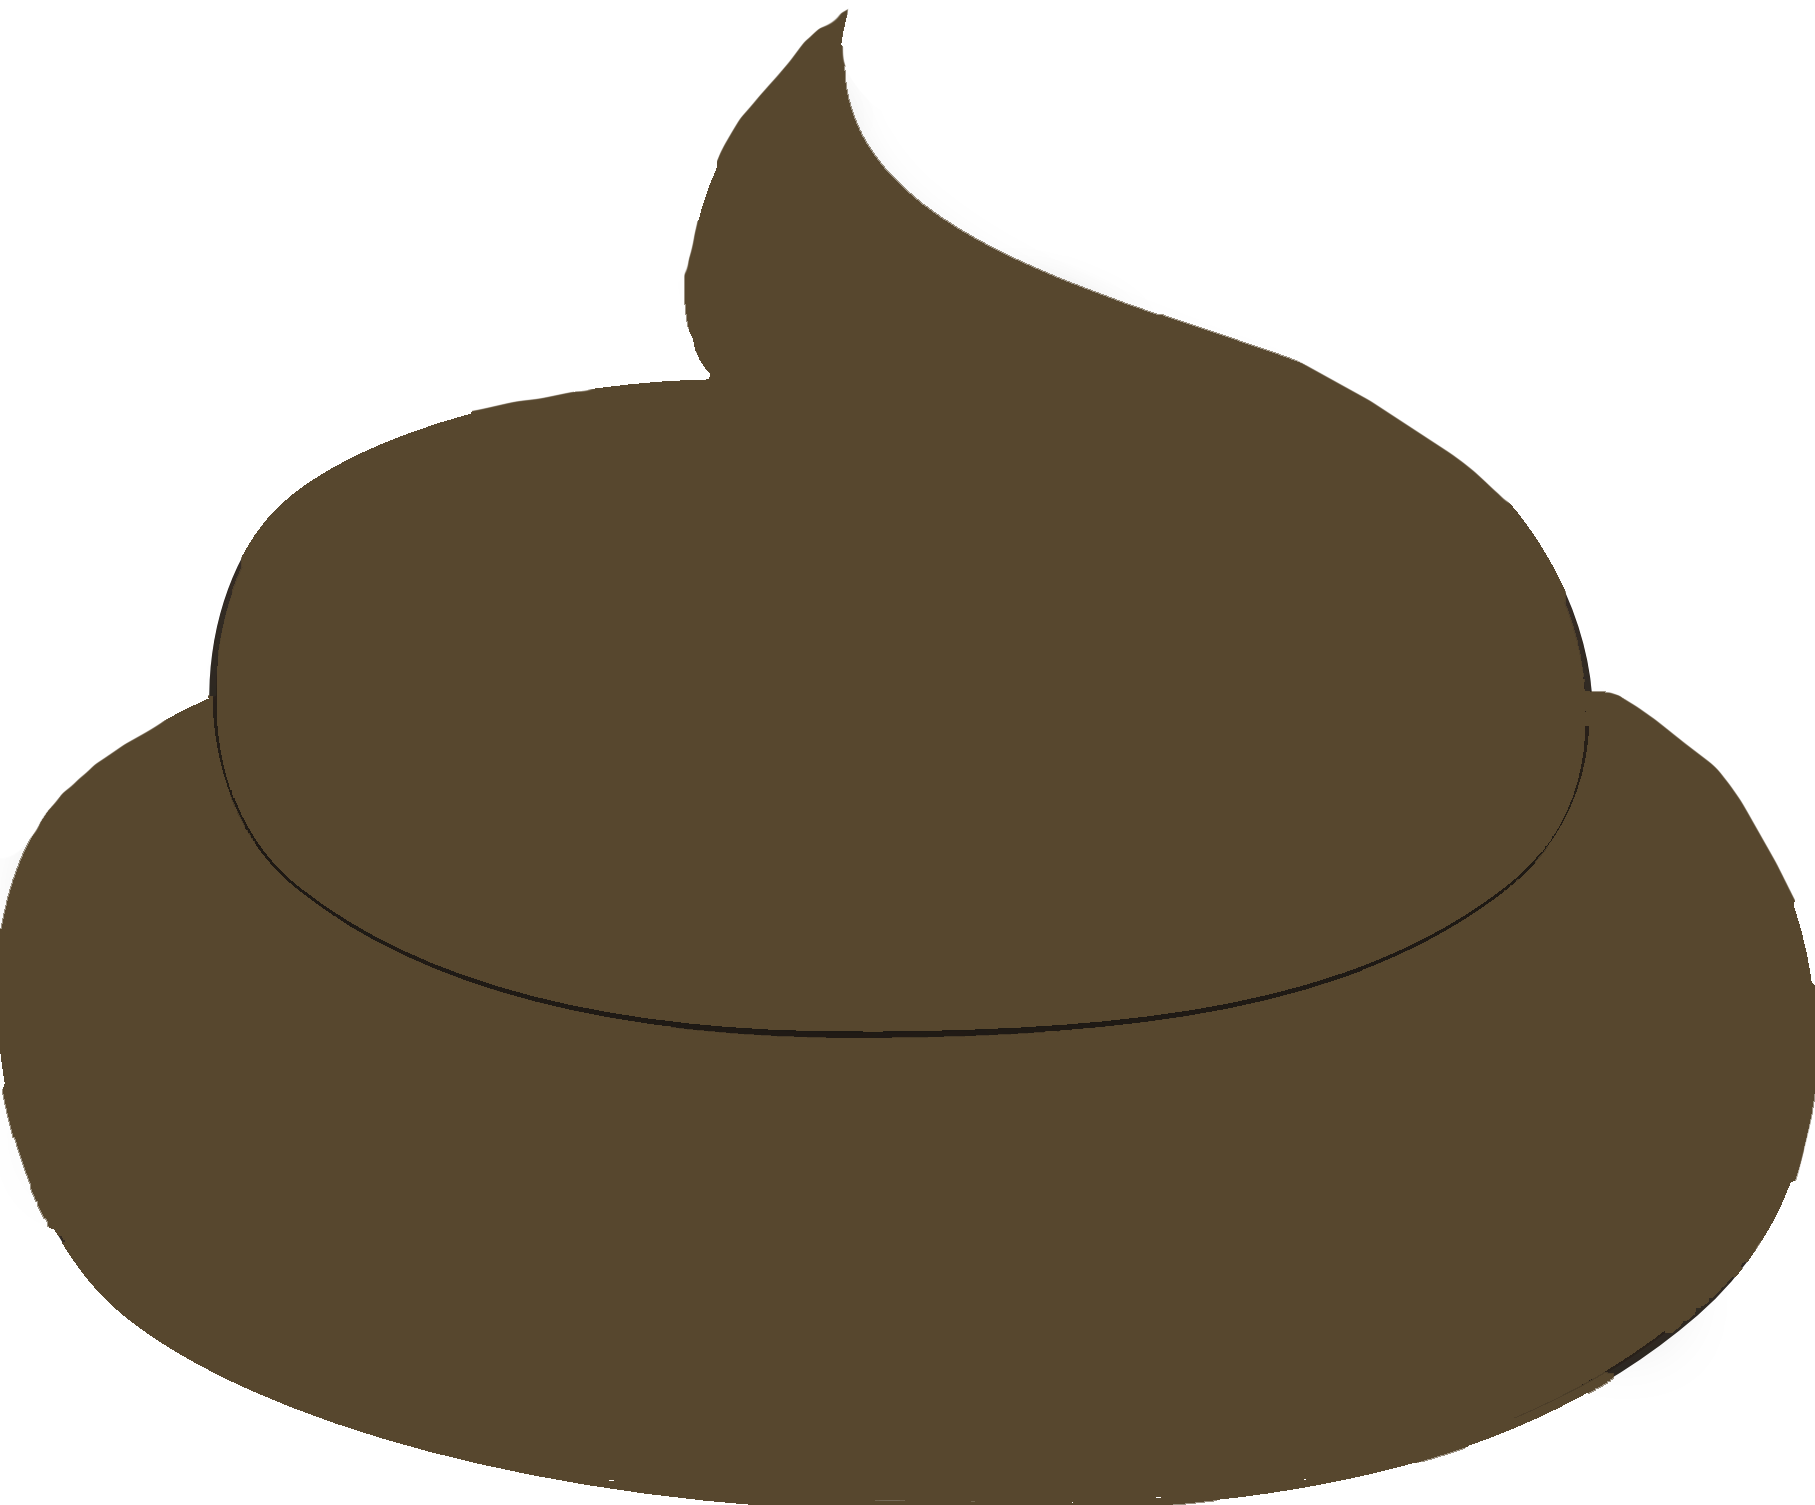
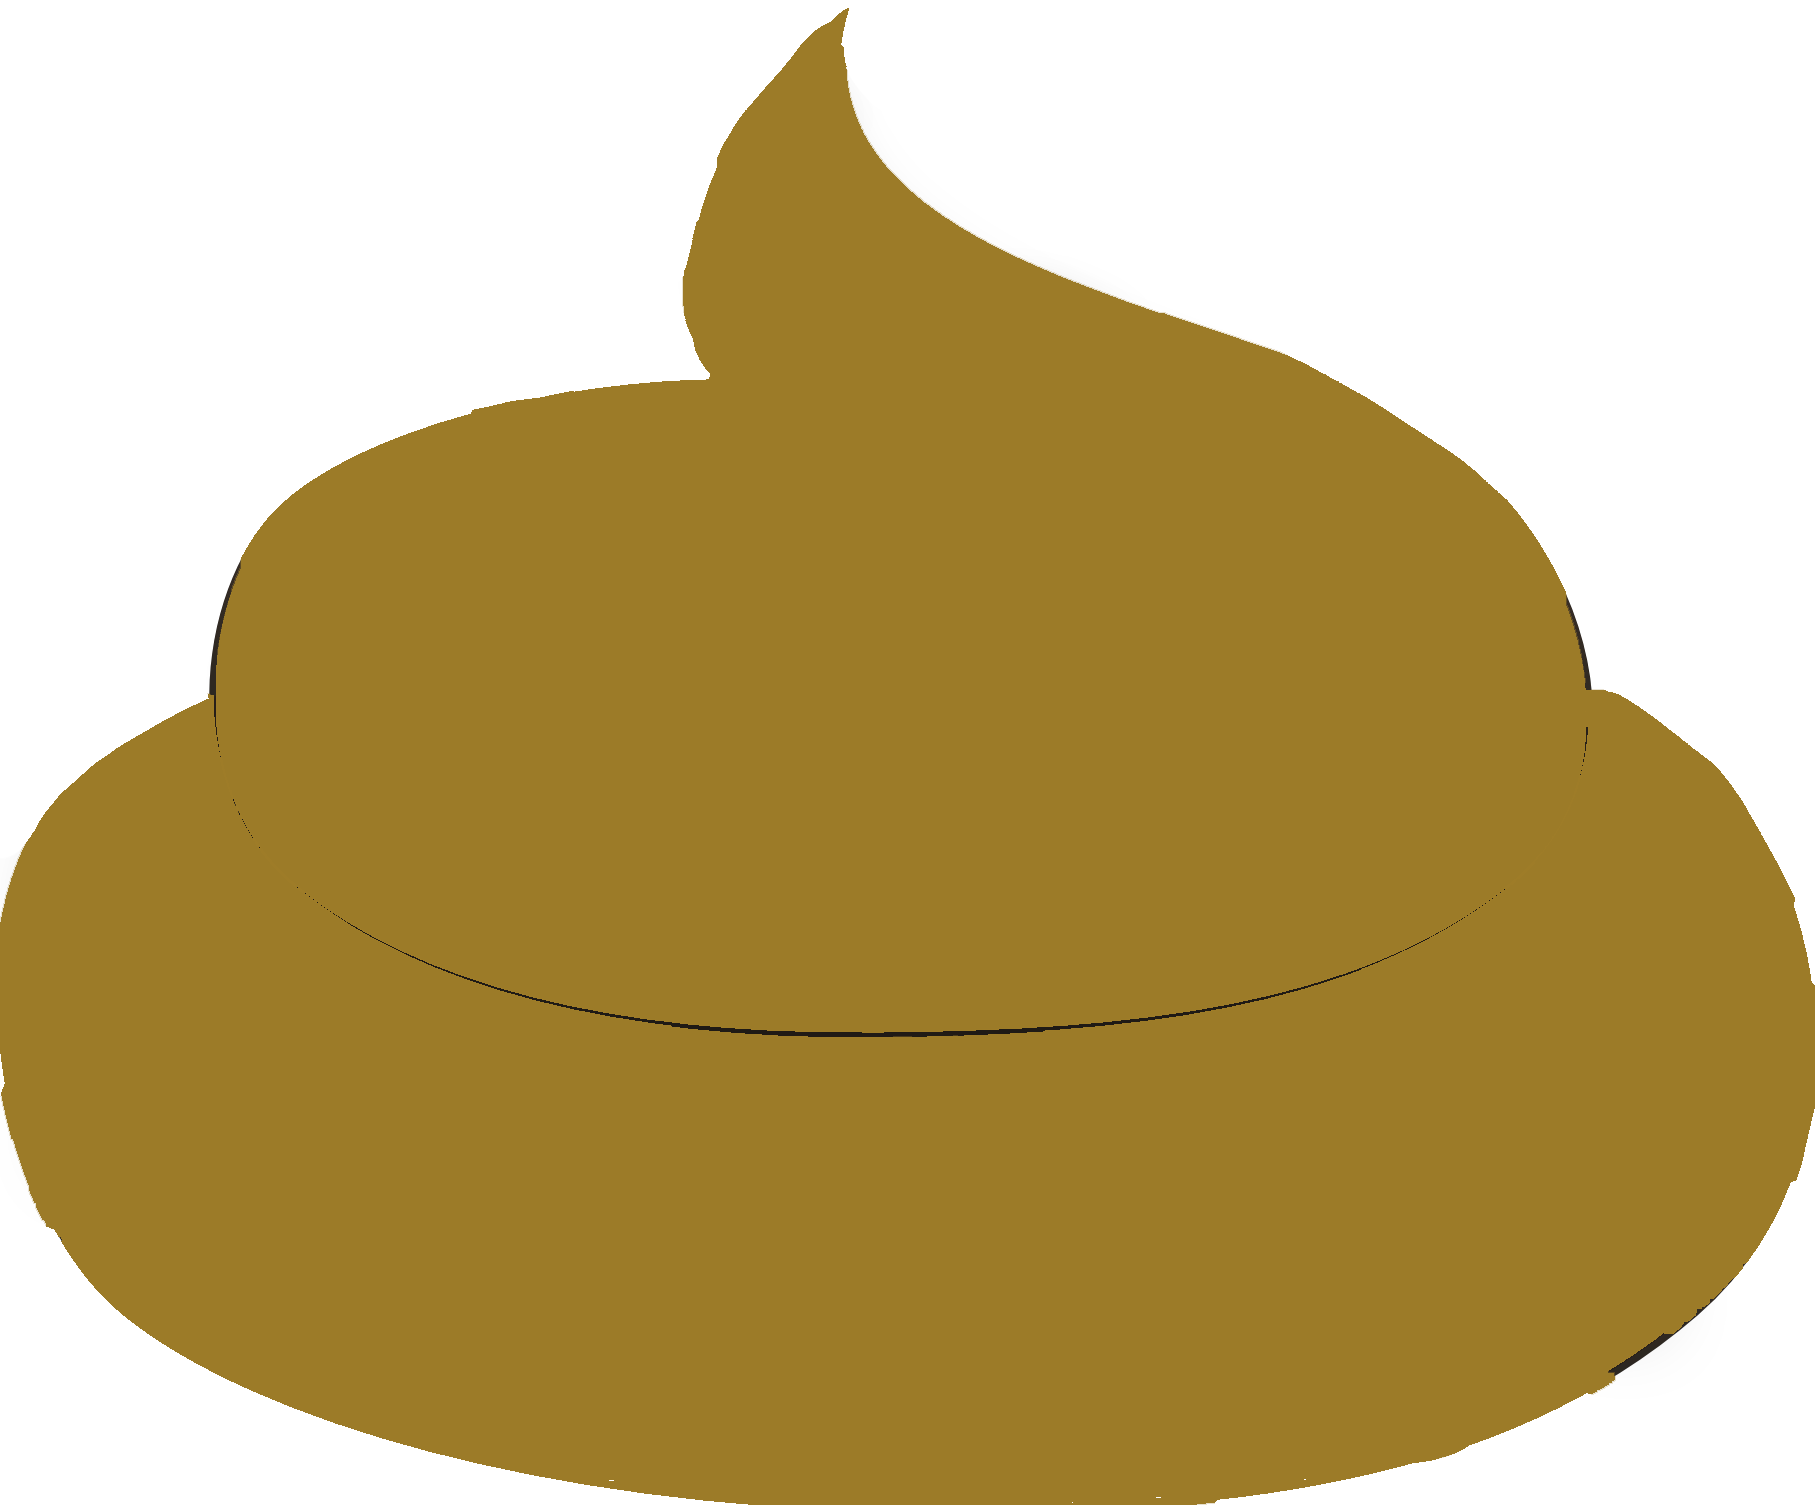
똥색깔변경경

diff --git a/rest/ddong/script.js b/rest/ddong/script.js
@@ -55,7 +55,8 @@ preloadImages(
     [
         "https://www.survivaloffice.com/images/ddong.png",
         "https://www.survivaloffice.com/images/ddong2.png",
-        "https://www.survivaloffice.com/images/ddong3.png"       
+        "https://www.survivaloffice.com/images/ddong3.png",   
+        "https://www.survivaloffice.com/images/zol.png"     
     ],
     () => {
         console.log("모든 이미지가 로드되었습니다!");
@@ -402,7 +403,7 @@ const gameArea = document.getElementById('game-area');
 // 캐릭터 생성
 const character = document.createElement('img');
 character.id = 'character';
-character.src = 'https://www.survivaloffice.com/images/10.png';
+character.src = 'https://www.survivaloffice.com/images/zol.png';
 gameArea.appendChild(character);
 
 let characterX = gameArea.offsetWidth / 2; // 초기 캐릭터 위치
